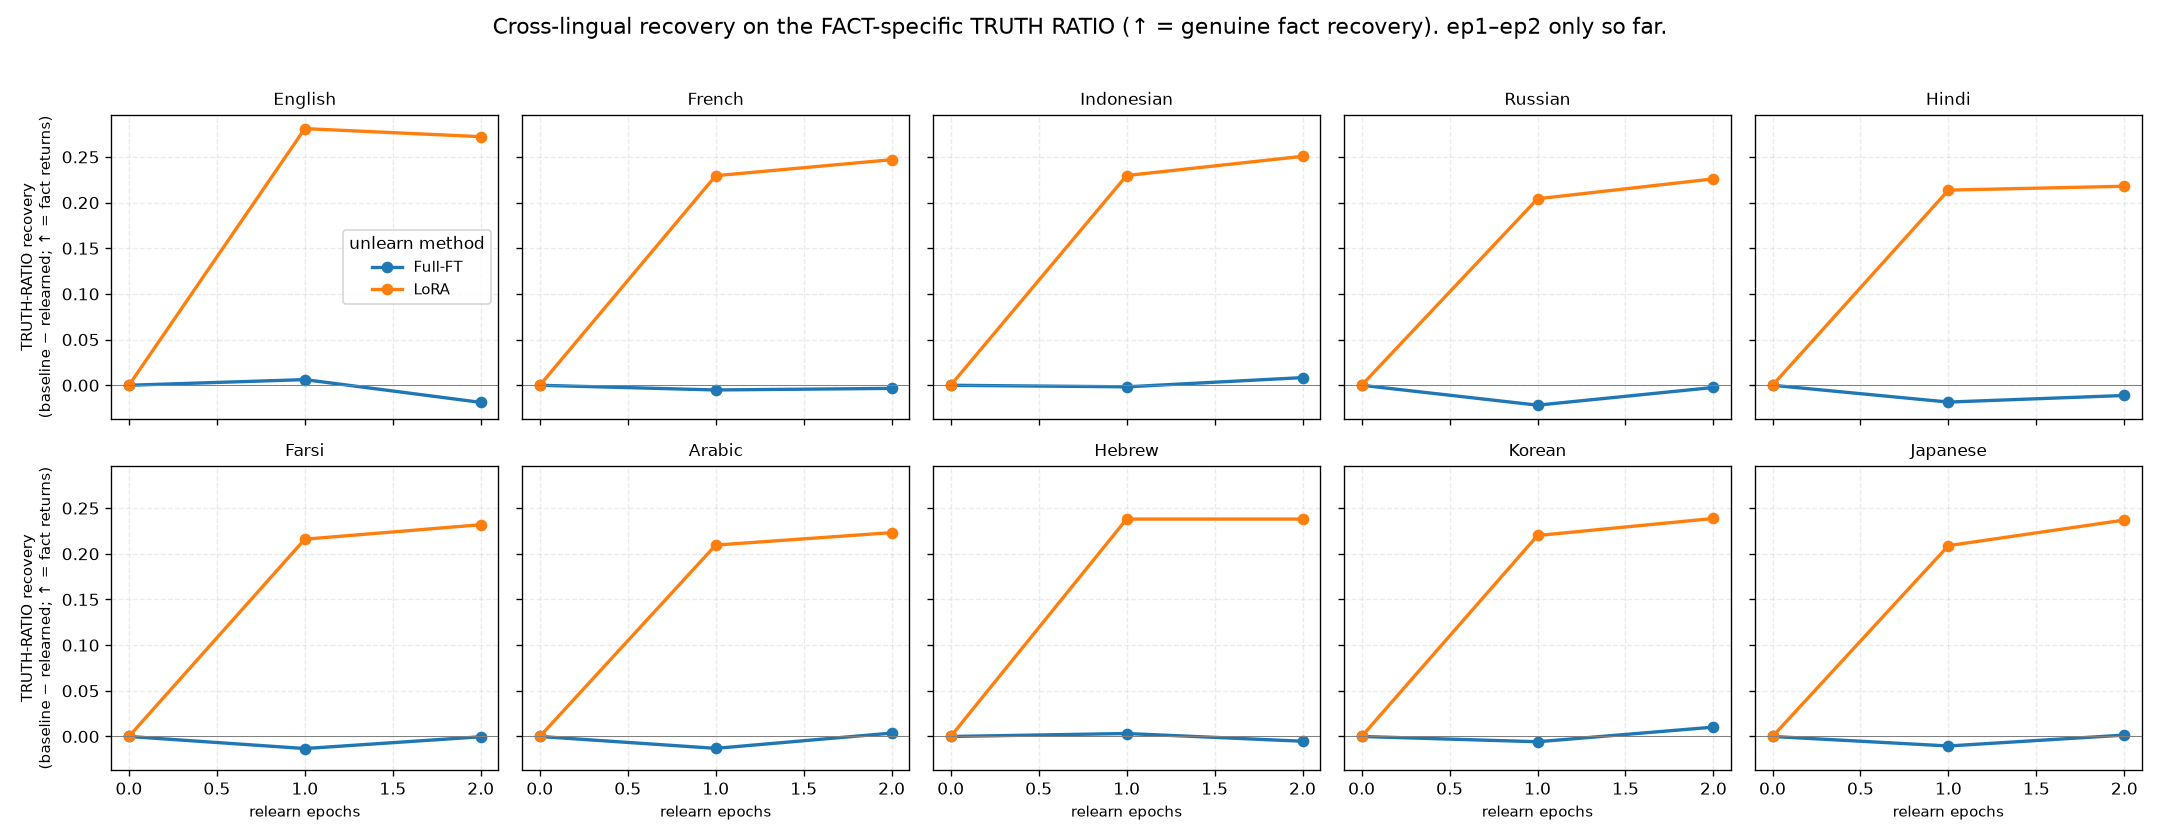
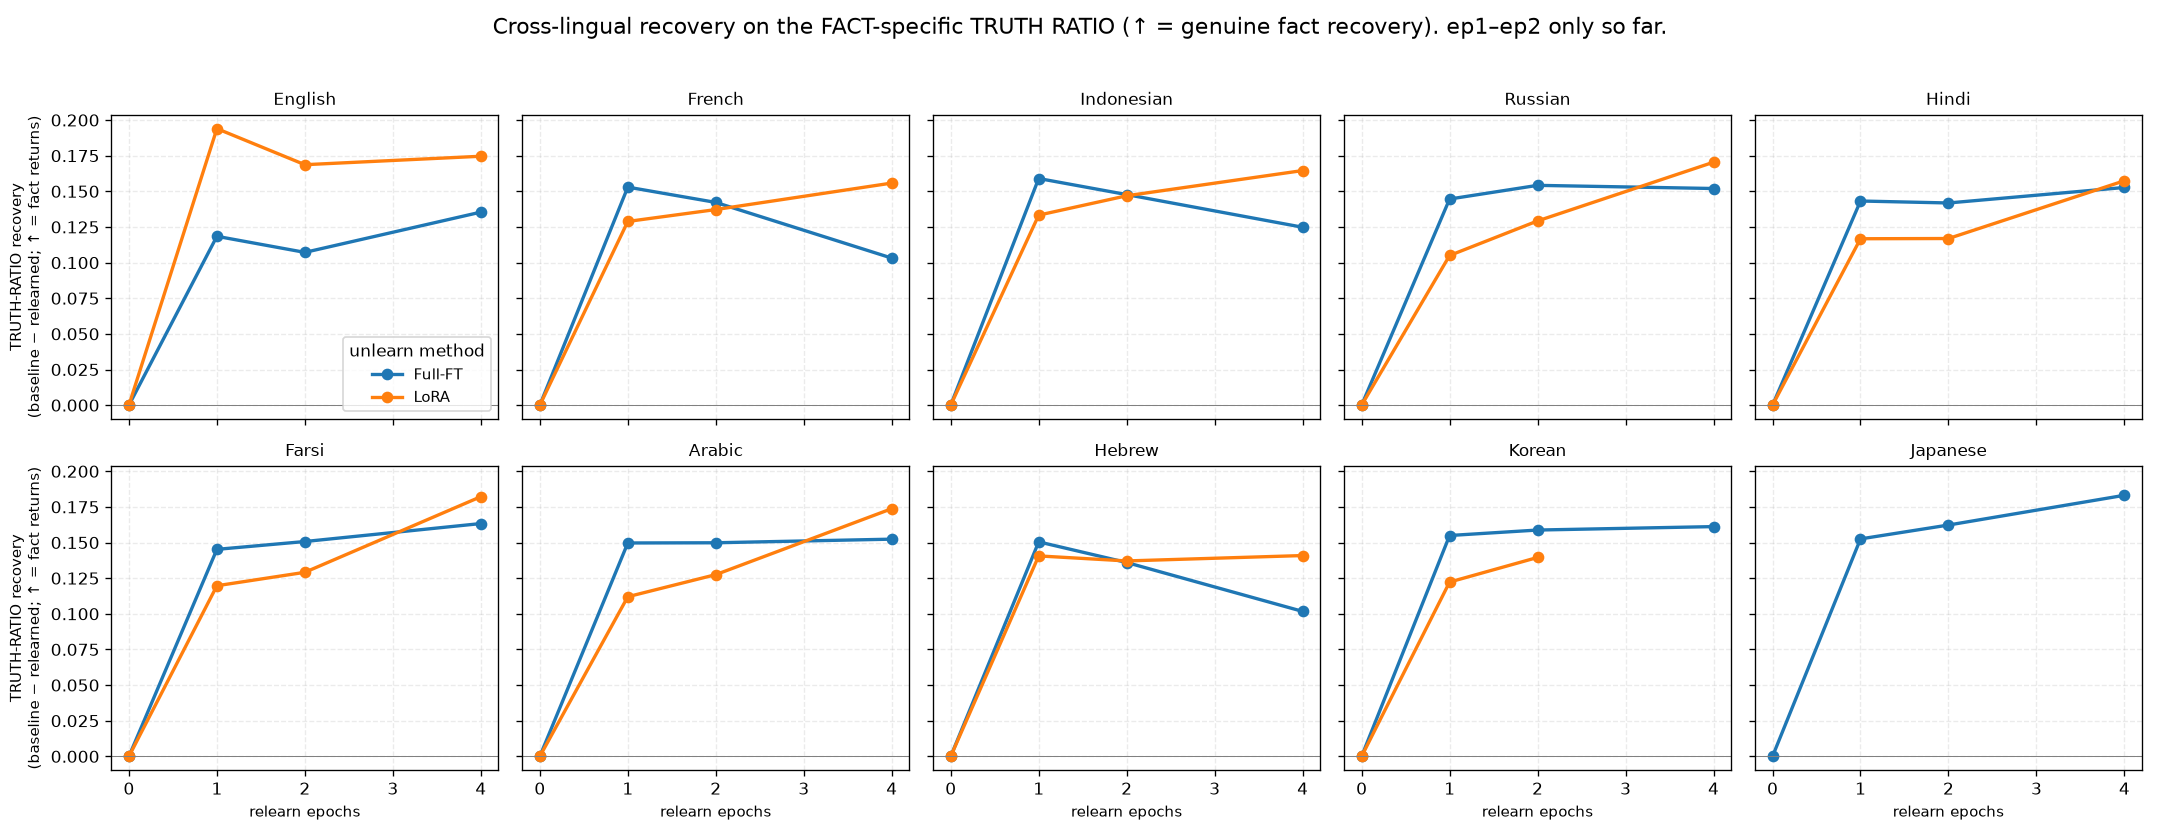
relearn results

diff --git a/studies/crosslingual_recovery/plots/plot_truthratio_absolute.py b/studies/crosslingual_recovery/plots/plot_truthratio_absolute.py
@@ -1,7 +1,7 @@
 """Cross-lingual recovery — ACTUAL truth ratio (not a derived 'recovery' delta).
 
 Plots the real truth-ratio value vs relearn epochs, per language, both methods, from
-results/relearn/crosslingual_facts/. Truth ratio LOWER = model knows the fact.
+results/relearn/crosslingual_deep/. Truth ratio LOWER = model knows the fact.
 Reference lines: LEARNED (~fact fully known) and 1.0 (no knowledge / guessing). Each
 method starts (ep0) at its unlearned baseline; relearning that moves the line DOWN
 toward the learned line = genuine fact recovery.
@@ -20,7 +20,7 @@ while _r != _r.parent and not (_r / "src").is_dir():
 sys.path.insert(0, str(_r))
 
 STUDY = Path(__file__).resolve().parents[1]
-FACTS = STUDY / "results" / "relearn" / "crosslingual_facts"
+FACTS = STUDY / "results" / "relearn" / "crosslingual_deep"
 FIGS = STUDY / "figures"
 
 import matplotlib
@@ -36,7 +36,7 @@ LANG_NAME = {"en": "English", "fr": "French", "id": "Indonesian", "ru": "Russian
              "hi": "Hindi", "fa": "Farsi", "ar": "Arabic", "iw": "Hebrew",
              "ko": "Korean", "ja": "Japanese"}
 FILES = {"fullft": ("Full-FT", "#1f77b4", "tofu_unlearn_gradient_difference_forget01_fullft_qwen3-8b"),
-         "lora":   ("LoRA", "#ff7f0e", "tofu_unlearn_gradient_difference_forget01_lora_uep42_qwen3-8b")}
+         "lora":   ("LoRA", "#ff7f0e", "tofu_unlearn_gradient_difference_forget01_lora_uep32_qwen3-8b")}
 LEARNED_TR = 0.459   # Qwen learned model's English forget truth ratio (fact fully known)
 
 
@@ -81,9 +81,9 @@ def main():
         ax.set_xlabel("relearn epochs", fontsize=9)
     for ax in (axes[0], axes[5]):
         ax.set_ylabel("truth ratio\n(↓ lower = knows the fact)", fontsize=9)
-    fig.suptitle("Actual truth ratio vs relearn epochs — LoRA drops toward 'fact known' "
-                 "(recovers); Full-FT stays flat (deleted). Lower = knows the fact.",
-                 fontsize=13)
+    fig.suptitle("Truth ratio vs relearn epochs — MATCHED DEEP baseline. BOTH methods "
+                 "recover (drop toward 'fact known'); LoRA somewhat more (~63% vs ~47% of "
+                 "room). Lower = knows the fact.", fontsize=12)
     fig.tight_layout(rect=(0, 0, 1, 0.96))
     FIGS.mkdir(parents=True, exist_ok=True)
     out = FIGS / "truthratio_absolute.png"

diff --git a/studies/crosslingual_recovery/plots/plot_recovery_vs_epoch_truthratio.py b/studies/crosslingual_recovery/plots/plot_recovery_vs_epoch_truthratio.py
@@ -1,7 +1,7 @@
 """Cross-lingual recovery TRAJECTORY vs epochs, on the FACT-specific TRUTH RATIO
 (not ROUGE). Recovery = baseline_TR - relearned_TR  (truth ratio DROPS when the fact
 returns, so a positive value = genuine recovery). Reads results/relearn/
-crosslingual_facts/ (the --fact-metrics run); currently ep1 + ep2 (ep0 = 0 by def).
+crosslingual_deep/ (the --fact-metrics run); currently ep1 + ep2 (ep0 = 0 by def).
 
 One subplot per language, both methods overlaid.
 
@@ -19,7 +19,7 @@ while _r != _r.parent and not (_r / "src").is_dir():
 sys.path.insert(0, str(_r))
 
 STUDY = Path(__file__).resolve().parents[1]
-FACTS = STUDY / "results" / "relearn" / "crosslingual_facts"
+FACTS = STUDY / "results" / "relearn" / "crosslingual_deep"
 FIGS = STUDY / "figures"
 
 import matplotlib
@@ -35,7 +35,7 @@ LANG_NAME = {"en": "English", "fr": "French", "id": "Indonesian", "ru": "Russian
              "hi": "Hindi", "fa": "Farsi", "ar": "Arabic", "iw": "Hebrew",
              "ko": "Korean", "ja": "Japanese"}
 FILES = {"fullft": ("Full-FT", "#1f77b4", "tofu_unlearn_gradient_difference_forget01_fullft_qwen3-8b"),
-         "lora":   ("LoRA", "#ff7f0e", "tofu_unlearn_gradient_difference_forget01_lora_uep42_qwen3-8b")}
+         "lora":   ("LoRA", "#ff7f0e", "tofu_unlearn_gradient_difference_forget01_lora_uep32_qwen3-8b")}
 
 
 def main():
